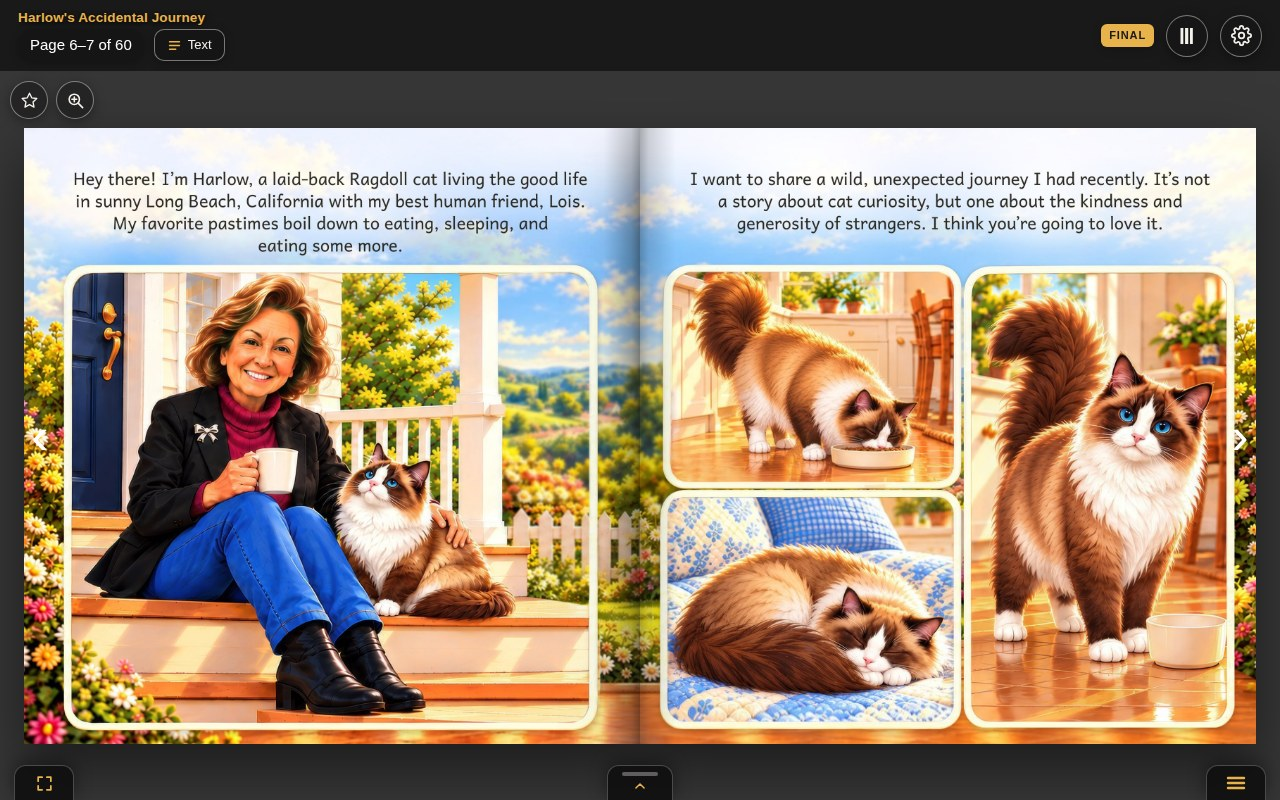
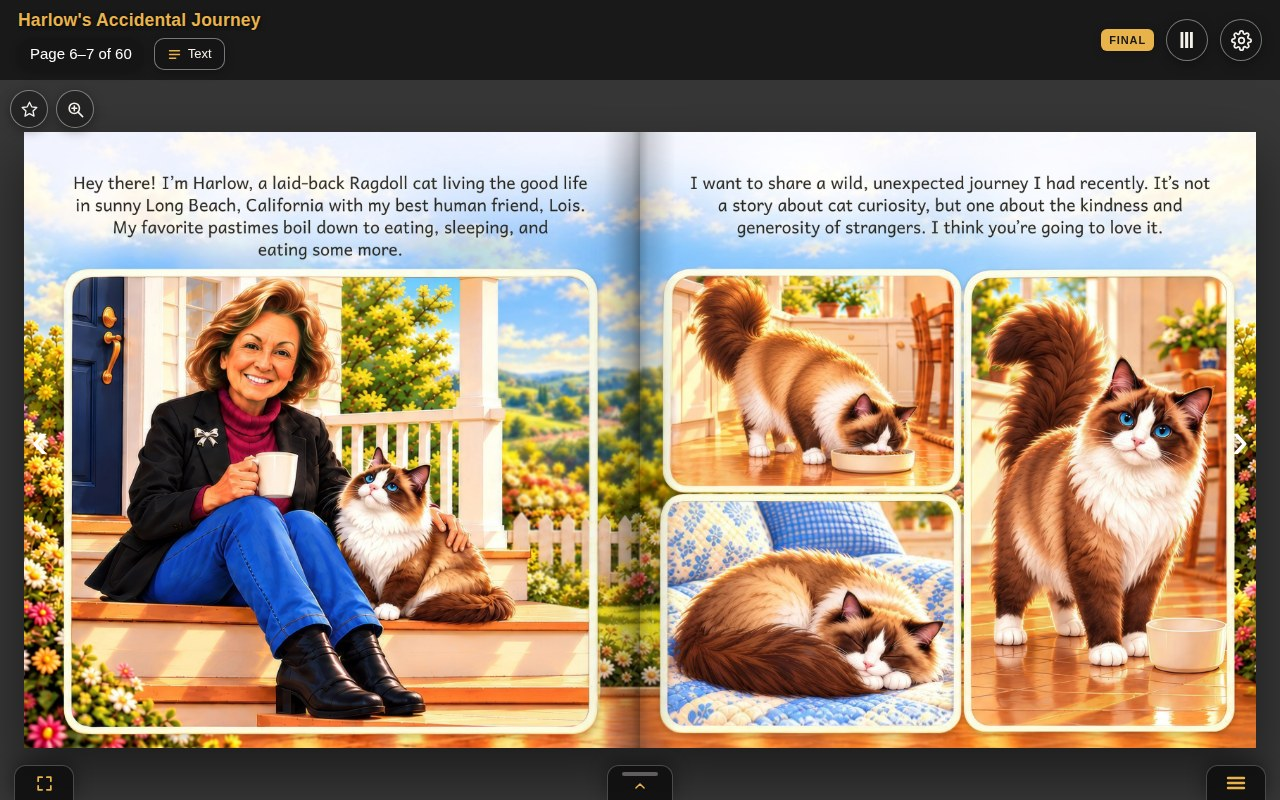
Sync #13: marks bar hides when empty + title final sizing
Delta on sync #12, the final two owner rounds. (1) Marks bar hides when empty (owner's ruling): when the open book has no marks, the Pages sheet's marks bar is fully hidden - the 'None yet' hint string and its style are deleted, the bar starts hidden in markup, a #marksBar[hidden] collapse rule lands, and refreshMarksBar() toggles the bar both ways. Behavior with marks present (jump chips, Clear all) is unchanged. (2) Title final sizing (owner iterated three times): the gold header title steps up to 17.5px on desktop and 16.5px at phone width, and the header stack gap grows from 3px to 7px; gold #e8b34b, weight 650, and the one-line ellipsis truncation are unchanged. README stills recaptured (header visibly changes); ?v= stamps refreshed.

diff --git a/index.html b/index.html
@@ -50,8 +50,8 @@
      the counter row, the badge stepping aside) can never push it
      out: it may shrink and end in an ellipsis, but it is always
      there, at phone width too. */
-  #headStack{display:flex;flex-direction:column;gap:3px;min-width:0;flex:1 1 auto}
-  #mark{display:block;color:#e8b34b;font-size:13.5px;font-weight:650;line-height:1.2;letter-spacing:.01em;white-space:nowrap;min-width:0;overflow:hidden;text-overflow:ellipsis;text-shadow:0 1px 6px rgba(0,0,0,.6),0 0 2px rgba(0,0,0,.45)}
+  #headStack{display:flex;flex-direction:column;gap:7px;min-width:0;flex:1 1 auto}
+  #mark{display:block;color:#e8b34b;font-size:17.5px;font-weight:650;line-height:1.2;letter-spacing:.01em;white-space:nowrap;min-width:0;overflow:hidden;text-overflow:ellipsis;text-shadow:0 1px 6px rgba(0,0,0,.6),0 0 2px rgba(0,0,0,.45)}
   /* Edition badge: what this copy declares itself to be. Gold means
      the approved final (it always has in this workflow), so Final
      wears it; Test drops to a muted silver-gray that clearly reads
@@ -725,11 +725,11 @@
   #markBtn.marked svg{fill:#e8b34b;stroke:#e8b34b}
   /* ---- Marked pages (Pages sheet bar + strip stars) ---- */
   #marksBar{display:flex;align-items:center;gap:8px;flex-wrap:wrap;padding:9px 14px 0}
+  #marksBar[hidden]{display:none}
   #marksLabel{font-size:11px;font-weight:700;letter-spacing:.09em;text-transform:uppercase;color:#b9b2a4}
   .markChip{min-height:30px;padding:4px 12px;border-radius:10px;background:rgba(232,179,75,.14);color:#e8b34b;border:1px solid rgba(232,179,75,.55);font:inherit;font-size:12.5px;font-weight:600;cursor:pointer;touch-action:manipulation;-webkit-tap-highlight-color:transparent}
   #marksClear{min-height:30px;padding:4px 12px;border-radius:10px;background:rgba(255,255,255,.07);color:#f4f1ea;border:1px solid rgba(244,241,234,.45);font:inherit;font-size:12.5px;font-weight:600;cursor:pointer;touch-action:manipulation}
   #marksClear[hidden]{display:none}
-  .marksEmpty{font-size:12.5px;color:#b9b2a4}
   .mmark{position:absolute;top:3px;right:4px;font-size:13px;line-height:1;color:#e8b34b;text-shadow:0 1px 3px rgba(0,0,0,.85),0 0 2px rgba(0,0,0,.9);pointer-events:none}
   /* ---- Book search (Pages sheet) ----
      A search field at the top of the Pages sheet, present only
@@ -792,7 +792,7 @@
   #zoomStage:active{cursor:grabbing}
   #zoomContent{display:flex;gap:0;will-change:transform;box-shadow:0 18px 44px rgba(0,0,0,.6)}
   #zoomContent img{display:block;object-fit:contain;background:#2b2b2b;user-select:none;-webkit-user-drag:none}
-  @media (max-width:560px){#banner{padding:8px 10px;gap:8px;flex-wrap:nowrap}#leftTools{gap:8px}#tools{gap:8px}#mark{font-size:12.5px}#counter{font-size:13.5px;padding:5px 9px}#textBtn{font-size:12.5px;padding:5px 10px;min-height:30px}#editionBadge{font-size:10.5px;letter-spacing:.05em;padding:4px 7px}#compareBtn,#listenBtn{font-size:12px;padding:5px 9px;min-height:30px}#listenBtn .pillTxt{display:none}.cmpLong{display:none}.cmpShort{display:inline}body.hdr-crowded #editionBadge{display:none}#stageTools{top:8px;left:8px}}
+  @media (max-width:560px){#banner{padding:8px 10px;gap:8px;flex-wrap:nowrap}#leftTools{gap:8px}#tools{gap:8px}#mark{font-size:16.5px}#counter{font-size:13.5px;padding:5px 9px}#textBtn{font-size:12.5px;padding:5px 10px;min-height:30px}#editionBadge{font-size:10.5px;letter-spacing:.05em;padding:4px 7px}#compareBtn,#listenBtn{font-size:12px;padding:5px 9px;min-height:30px}#listenBtn .pillTxt{display:none}.cmpLong{display:none}.cmpShort{display:inline}body.hdr-crowded #editionBadge{display:none}#stageTools{top:8px;left:8px}}
   @media (max-width:560px){body.hdr-pills #editionBadge{display:none}body.hdr-crowded #banner{gap:6px}body.hdr-crowded #leftTools{gap:6px}body.hdr-crowded #tools{gap:6px}body.hdr-crowded #textBtn>span{display:none}body.hdr-crowded #compareBtn .cmpShort{display:none}}
 
   /* ---- 3D shelf view (Shelf view: 3D) ----
@@ -1006,7 +1006,7 @@
       <div class="sheetHandle" aria-hidden="true"></div>
       <div id="sheetBar"><span id="sheetTitleWrap"><span id="sheetTitle">Pages</span><span id="sheetSub">Tap one to jump there</span></span><span id="sheetActions"><button id="stripEditBtn" type="button" aria-pressed="false">Edit</button><button id="sheetClose" type="button" aria-label="Close pages"><svg viewBox="0 0 24 24" aria-hidden="true"><path d="M6 6l12 12M18 6L6 18"/></svg></button></span></div>
       <div id="searchBox" hidden><div id="searchField"><svg viewBox="0 0 24 24" aria-hidden="true"><circle cx="10.5" cy="10.5" r="6.5"/><path d="M15.3 15.3L21 21"/></svg><input id="searchInput" type="text" placeholder="Search this book" aria-label="Search this book" autocomplete="off" autocapitalize="off" spellcheck="false" enterkeyhint="search"><button id="searchClear" type="button" aria-label="Clear search" hidden><svg viewBox="0 0 24 24" aria-hidden="true"><path d="M6 6l12 12M18 6L6 18"/></svg></button></div><div id="searchResults" aria-label="Search results"></div><p id="searchEmpty" hidden>No matches in this book.</p></div>
-      <div id="marksBar"><span id="marksLabel">Marked pages</span><span id="marksList"></span><button id="marksClear" type="button" hidden>Clear all</button></div>
+      <div id="marksBar" hidden><span id="marksLabel">Marked pages</span><span id="marksList"></span><button id="marksClear" type="button" hidden>Clear all</button></div>
       <p id="stripNote" hidden></p>
       <div id="strip"></div>
       <div id="stripActions" hidden><span id="stripSelLabel">Tap a page above to choose it.</span><button id="artReplaceBtn" type="button">Replace art&hellip;</button><button id="artSpreadBtn" type="button" hidden>Replace spread&hellip;</button><button id="artPhBtn" type="button" hidden>Use a placeholder&hellip;</button><button id="artPhSpreadBtn" type="button" hidden>Placeholder spread&hellip;</button><button id="artInsertBeforeBtn" type="button" hidden>Insert before&hellip;</button><button id="artInsertAfterBtn" type="button" hidden>Insert after&hellip;</button><button id="artRemoveBtn" type="button" hidden>Remove inserted page</button><button id="artRevertBtn" type="button" hidden>Revert to original art</button></div>
@@ -5230,19 +5230,18 @@
       if (typeof buildShelf === "function" && shelfIsOpen) buildShelf();
       if (sheet.classList.contains("open")) buildStrip();
     });
+    var marksBarEl = document.getElementById("marksBar");
     var marksListEl = document.getElementById("marksList");
     var marksClearBtn = document.getElementById("marksClear");
     function refreshMarksBar() {
       if (!marksListEl) return;
       marksListEl.innerHTML = "";
       if (!currentMarks.length) {
-        var em = document.createElement("span");
-        em.className = "marksEmpty";
-        em.textContent = "None yet \u2014 tap the star in the reader to mark a spread.";
-        marksListEl.appendChild(em);
+        if (marksBarEl) marksBarEl.hidden = true;
         if (marksClearBtn) marksClearBtn.hidden = true;
         return;
       }
+      if (marksBarEl) marksBarEl.hidden = false;
       if (marksClearBtn) marksClearBtn.hidden = false;
       currentMarks.slice().sort(function (a, b) { return a - b; }).forEach(function (idx) {
         var chip = document.createElement("button");

diff --git a/README.md b/README.md
@@ -17,7 +17,7 @@
 
 Double-click `index.html` to open the viewer with no server. The page images also ride along in `images/pages-data.js`, and the page loads that file before the first turn, on disk and on a website. A turn uses those in-memory pages, so it does not flicker while a JPEG downloads. Open PDF, or drop a PDF on the page, reads that file on this computer. It does not fetch a PDF by path.
 
-![Harlow cover on the dark hardcover stage](https://github.com/MyDigitalStudioz/3D-Flip-BookVizon/raw/main/media/hero.jpg?v=202611081252)
+![Harlow cover on the dark hardcover stage](https://github.com/MyDigitalStudioz/3D-Flip-BookVizon/raw/main/media/hero.jpg?v=202611081324)
 
 ## Screenshots
 
@@ -25,15 +25,15 @@ Captured from the working viewer on `3D-Flip-BookVizon-v9`. The live book is the
 
 **Cover** — the book closed on the dark stage.
 
-![Harlow cover](https://github.com/MyDigitalStudioz/3D-Flip-BookVizon/raw/main/media/hero.jpg?v=202611081252)
+![Harlow cover](https://github.com/MyDigitalStudioz/3D-Flip-BookVizon/raw/main/media/hero.jpg?v=202611081324)
 
 **Mid-book** — the first story spread, pages 6–7.
 
-![Story spread, pages 6 and 7](https://github.com/MyDigitalStudioz/3D-Flip-BookVizon/raw/main/media/spread.jpg?v=202611081252)
+![Story spread, pages 6 and 7](https://github.com/MyDigitalStudioz/3D-Flip-BookVizon/raw/main/media/spread.jpg?v=202611081324)
 
 **Phone** — the same cover at a 390px-wide window.
 
-![Phone view of the cover](https://github.com/MyDigitalStudioz/3D-Flip-BookVizon/raw/main/media/mobile.jpg?v=202611081252)
+![Phone view of the cover](https://github.com/MyDigitalStudioz/3D-Flip-BookVizon/raw/main/media/mobile.jpg?v=202611081324)
 
 ## What's inside
 
